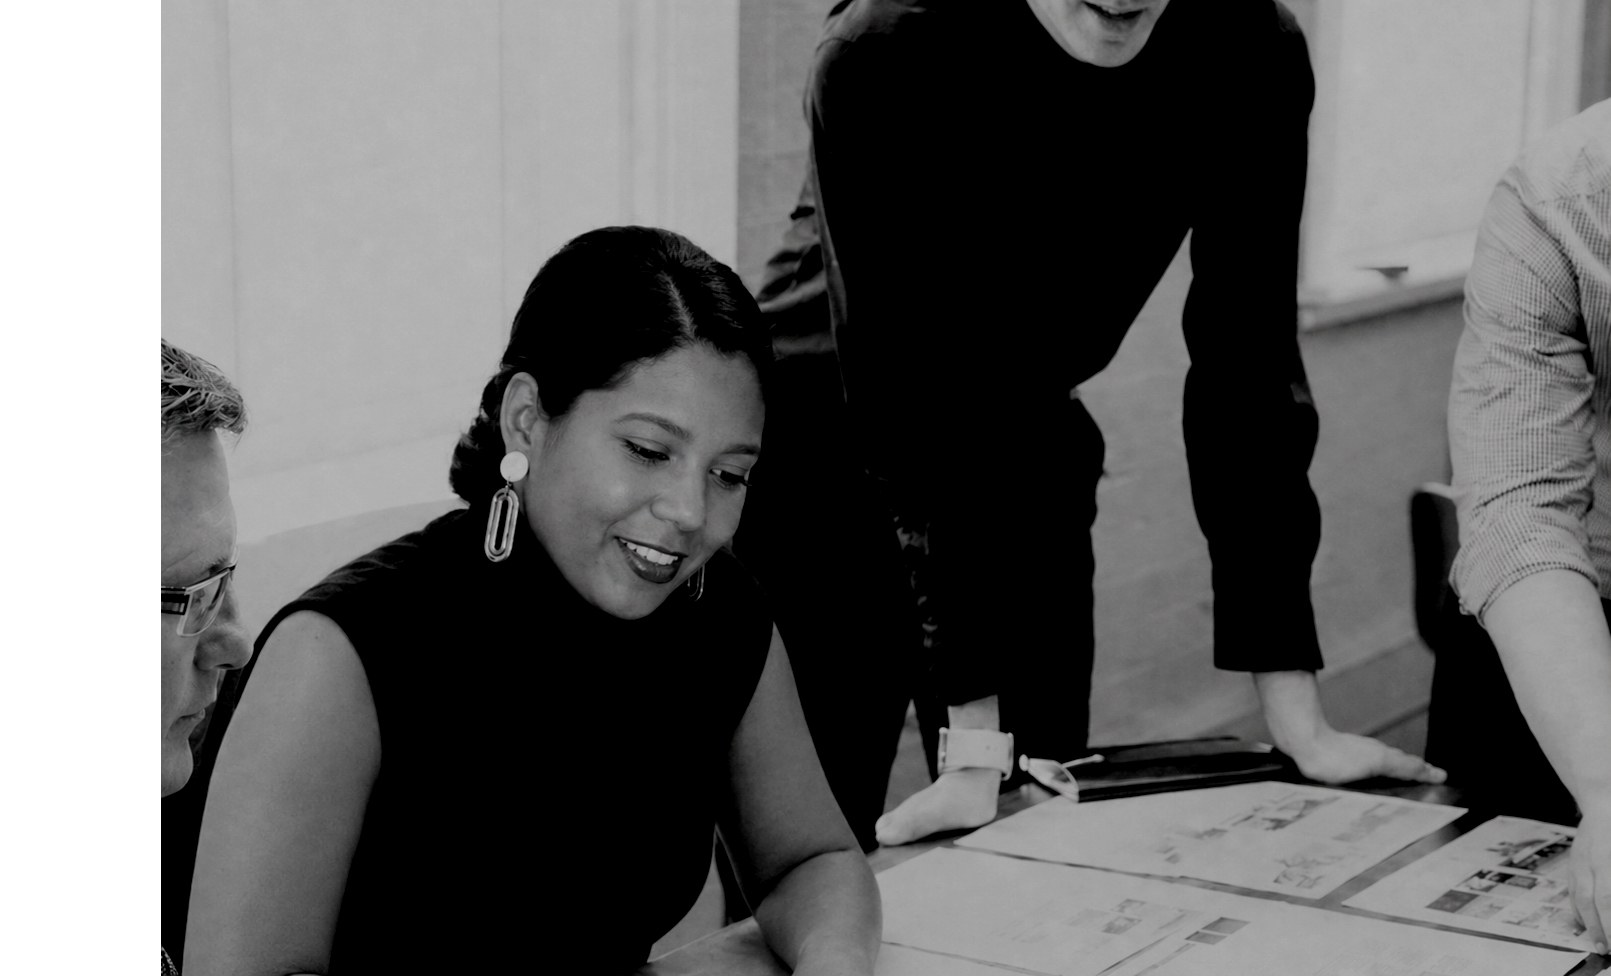
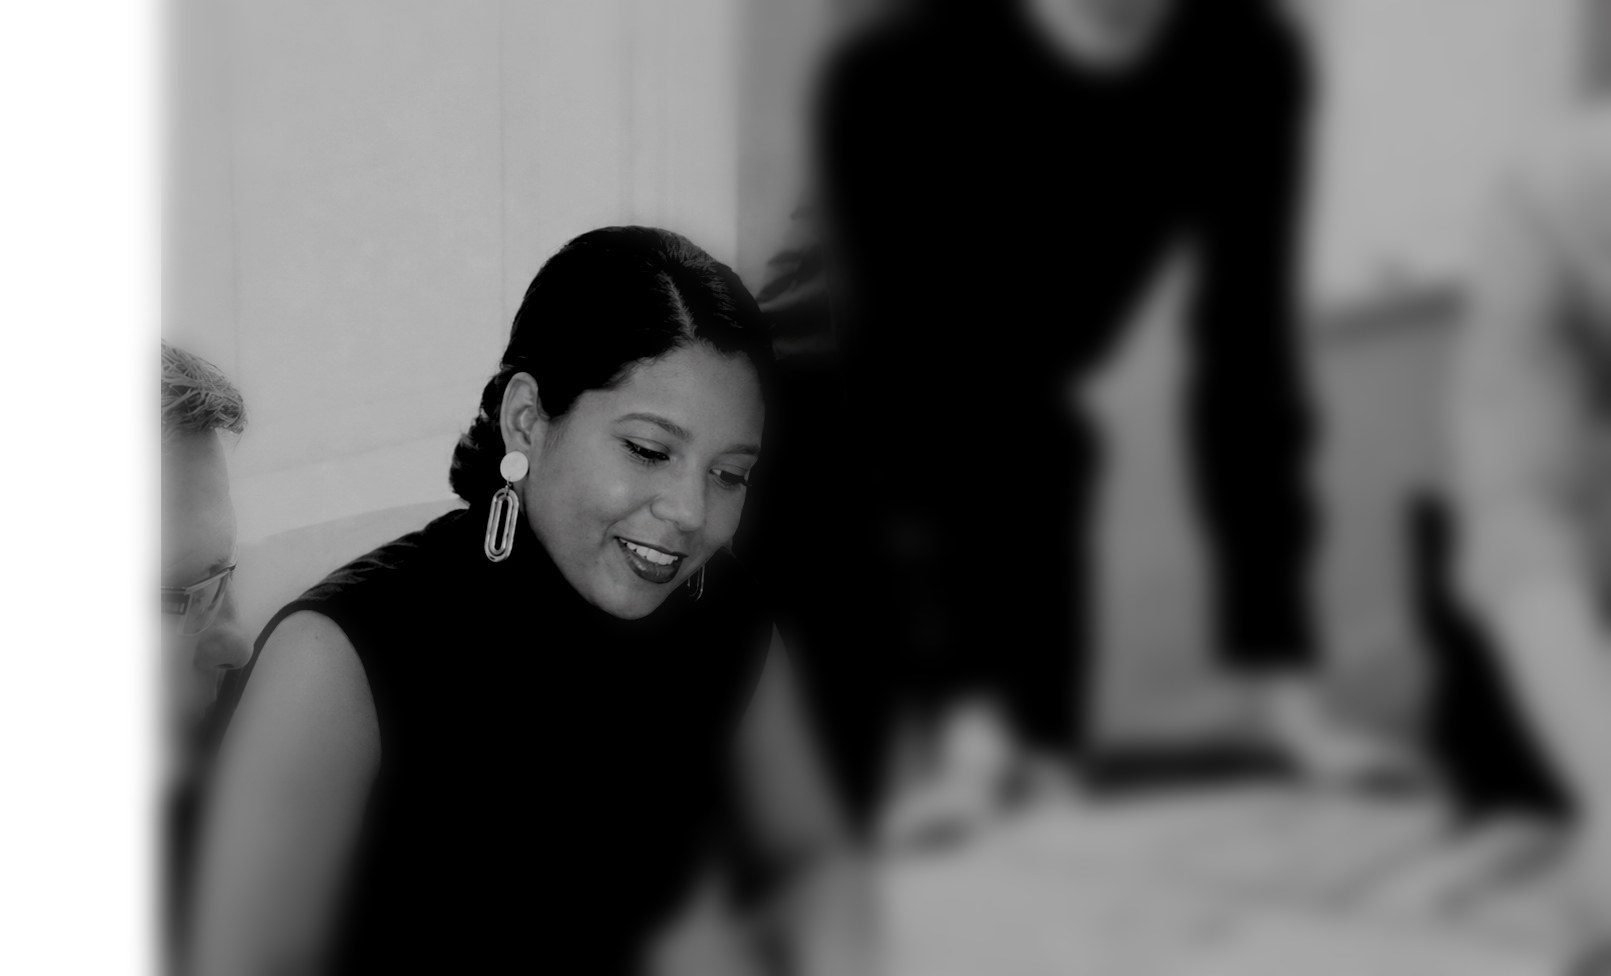
Hero: radial subject blur, left anchor, harder cream gradient
Applies depth-of-field blur (radius 14) baked into the image with a
soft elliptical mask keeping Marberd sharp. Gradient extended to 70%.

diff --git a/index.html b/index.html
@@ -23,7 +23,7 @@
   inset: 0;
   background-image: url('assets/images/hero-meeting.jpg');
   background-size: cover;
-  background-position: 35% center;
+  background-position: left center;
   z-index: 1;
 }
 .hero__gradient {
@@ -31,9 +31,10 @@
   inset: 0;
   background: linear-gradient(
     to right,
-    rgba(245,243,239,0.95) 0%,
-    rgba(245,243,239,0.7)  30%,
-    rgba(245,243,239,0)    55%,
+    rgba(245,243,239,0.98) 0%,
+    rgba(245,243,239,0.88) 35%,
+    rgba(245,243,239,0.5)  52%,
+    rgba(245,243,239,0)    70%,
     rgba(245,243,239,0)    100%
   );
   z-index: 2;
